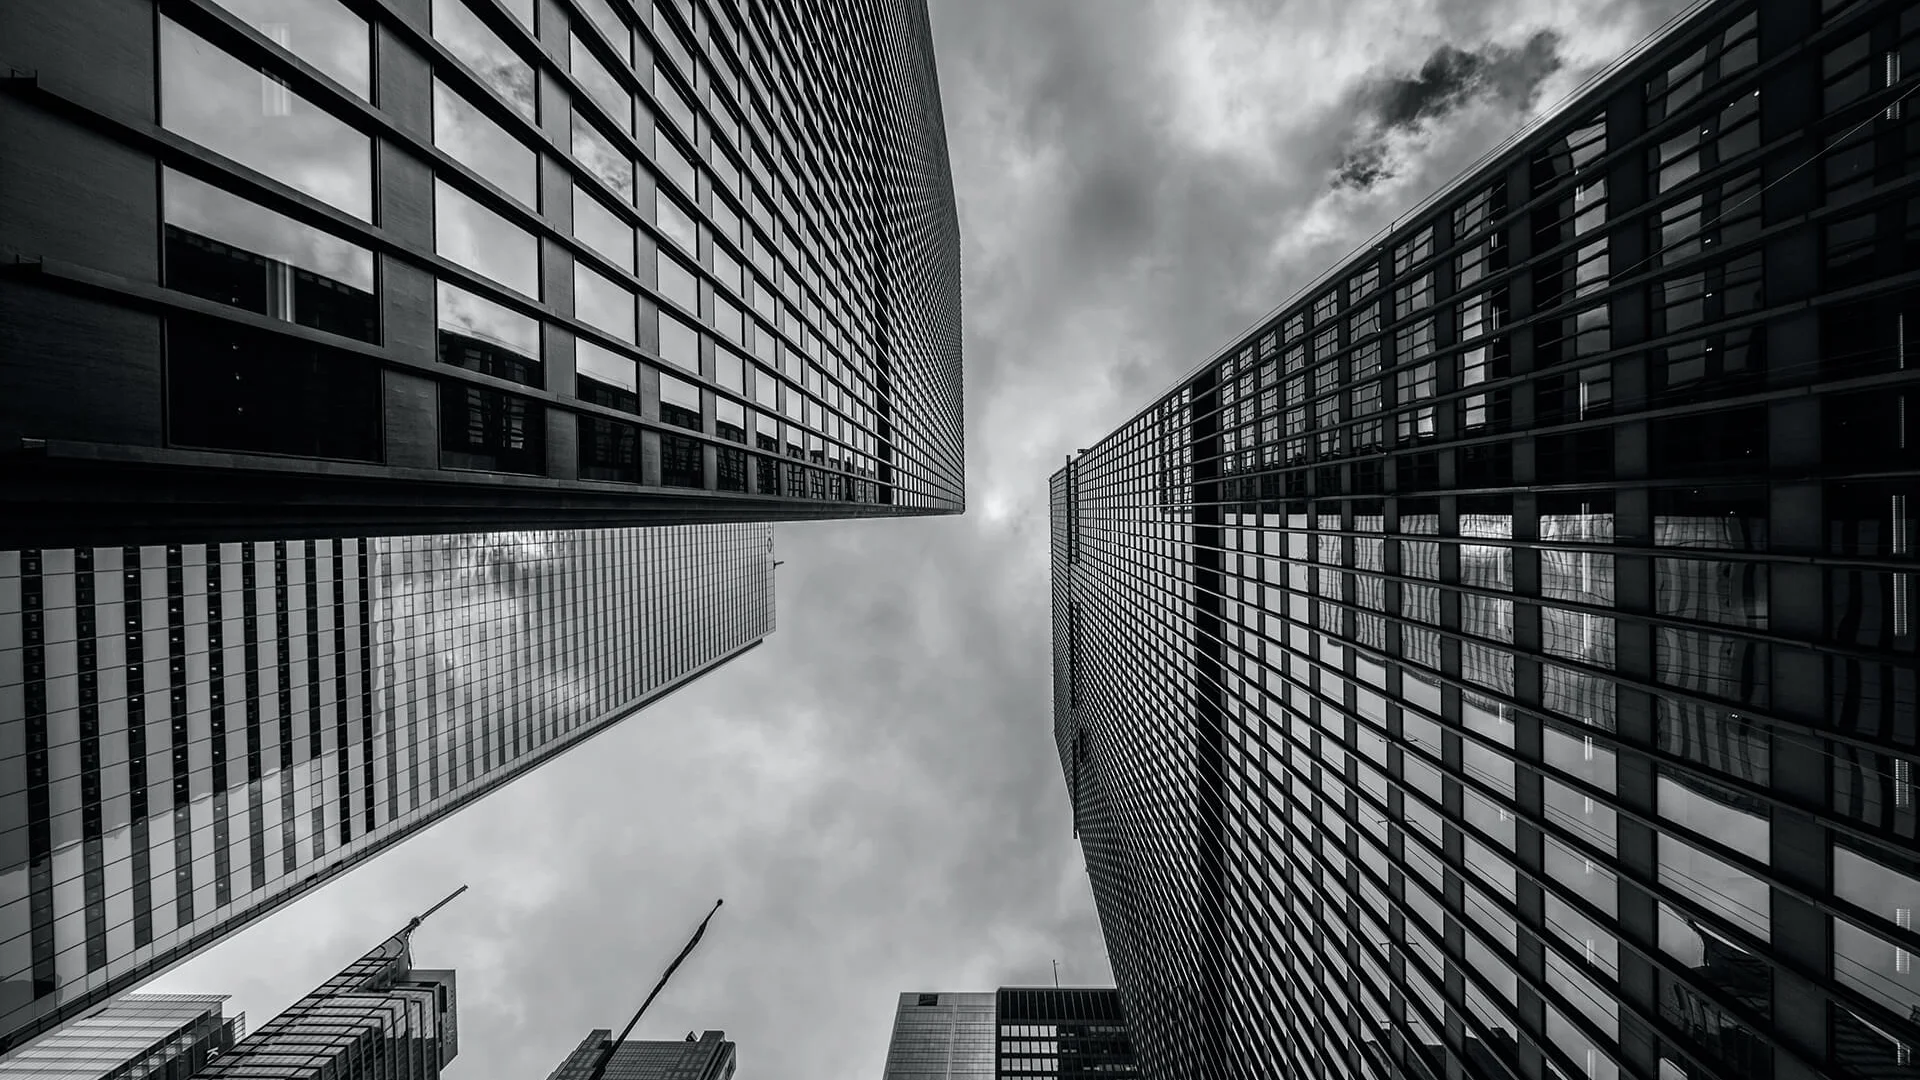
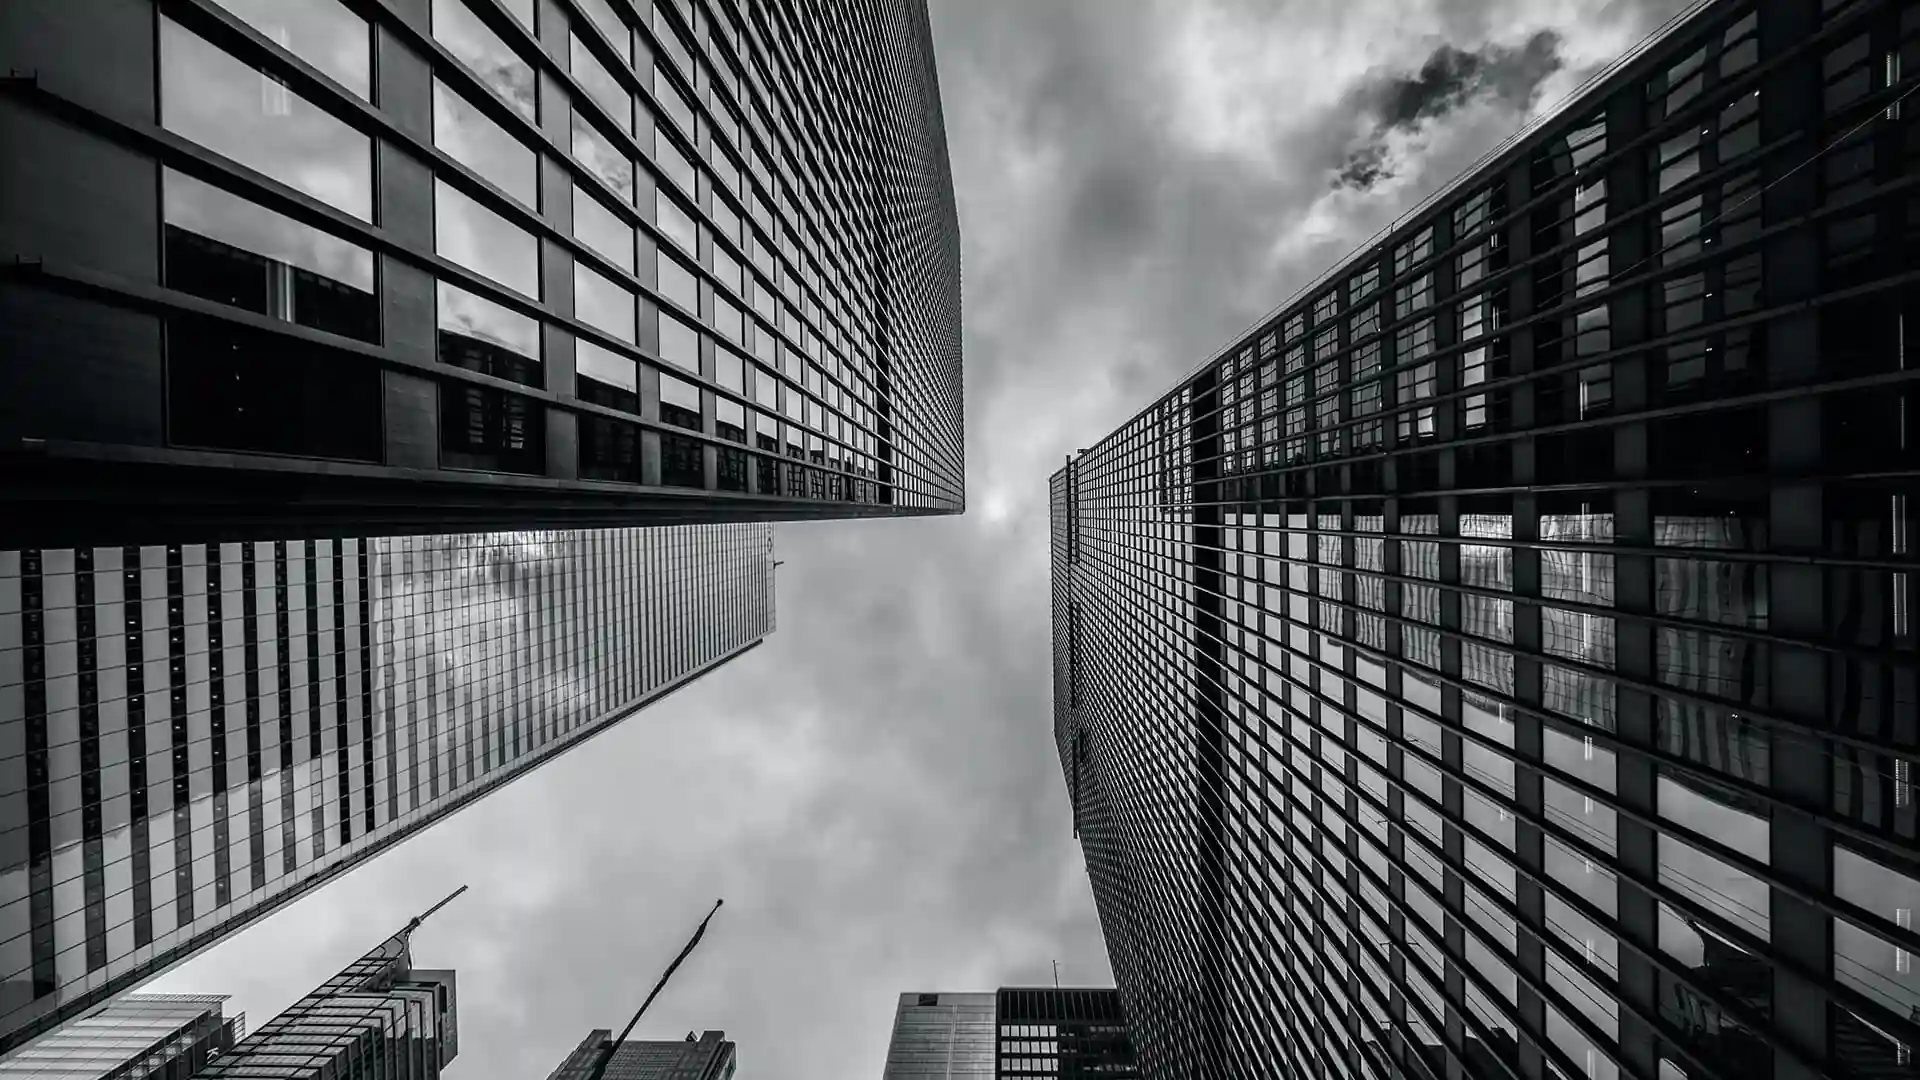
Reduced images sizes

diff --git a/index.html b/index.html
@@ -662,7 +662,7 @@
             <div class="col-xl-3 col-lg-4 col-md-6 portfolio-item isotope-item filter-consumer-electronics">
               <div class="portfolio-content h-100">
                   <a href="portfolio-details-samsung-hbbtv-ta.html" title="More Details" class="details-link">
-                    <img src="assets/img/case-studies/samsung-hbbtv-ta.avif" class="img-fluid" alt="">
+                    <img src="assets/img/case-studies/samsung-hbbtv-ta.webp" class="img-fluid" alt="">
                   </a>
               </div>
             </div><!-- End Portfolio Item -->

diff --git a/portfolio-details-samsung-hbbtv-ta.html b/portfolio-details-samsung-hbbtv-ta.html
@@ -93,7 +93,7 @@
               <div class="swiper-wrapper align-items-center">
 
                 <div class="swiper-slide">
-                  <img src="assets/img/case-studies/samsung-hbbtv-ta.avif" alt="">
+                  <img src="assets/img/case-studies/samsung-hbbtv-ta.webp" alt="">
                 </div>
               </div>
               <div class="swiper-pagination"></div>

diff --git a/assets/css/main.css b/assets/css/main.css
@@ -421,7 +421,7 @@ h6 {
 --------------------------------------------------------------*/
 .footer {
   color: var(--default-color);
-  background: url(../img/footer-bg.jpg) center no-repeat;
+  background: url(../img/footer-bg.webp) center no-repeat;
   background-size: cover;
   font-size: 14px;
   text-align: center;

diff --git a/assets/scss/layouts/_footer.scss b/assets/scss/layouts/_footer.scss
@@ -4,7 +4,7 @@
 --------------------------------------------------------------*/
 .footer {
   color: var(--default-color);
-  background: url(../img/footer-bg.jpg) center no-repeat;
+  background: url(../img/footer-bg.webp) center no-repeat;
   background-size: cover;
   font-size: 14px;
   text-align: center;
